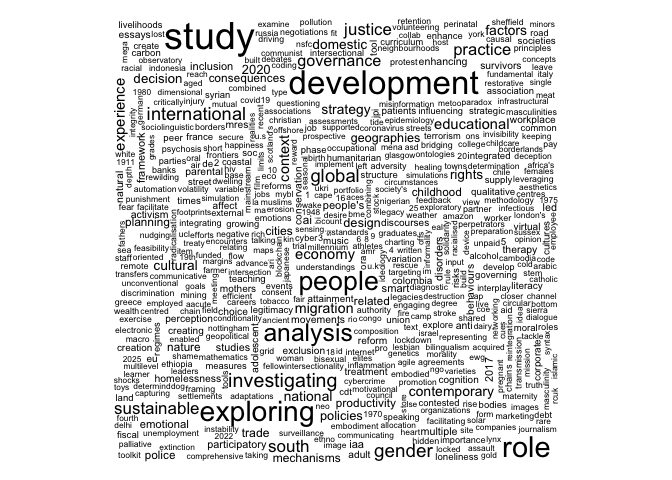
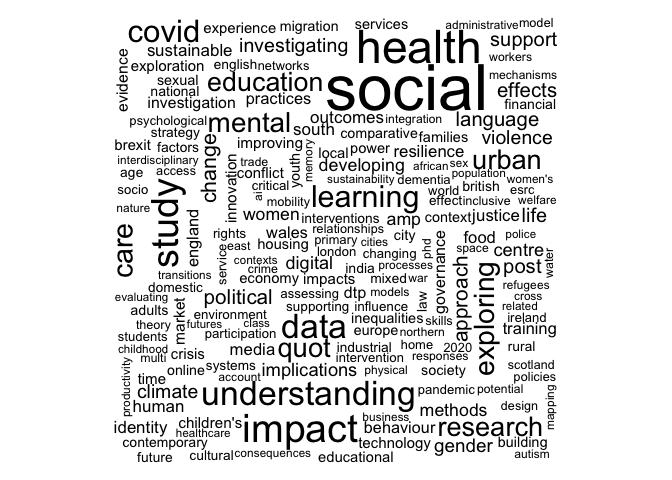
Reduced word cloud to the top 250 words.
Former-commit-id: e475845f38a007de6641302b0d3bd21ee8bb6d6d

diff --git a/Src/ESRC.md b/Src/ESRC.md
@@ -440,8 +440,8 @@ Currently active doctoral partnerships ordered by the start date.
 
 ### Active award titles
 
-A word cloud made from the award titles (some of the longer words are
-not included).
+A word cloud made from the award titles using the top 250 words thogh
+some of the longer words have been excluded.
 
 ![](ESRC_files/figure-gfm/ActiveWordCloud-1.png)<!-- -->
 
